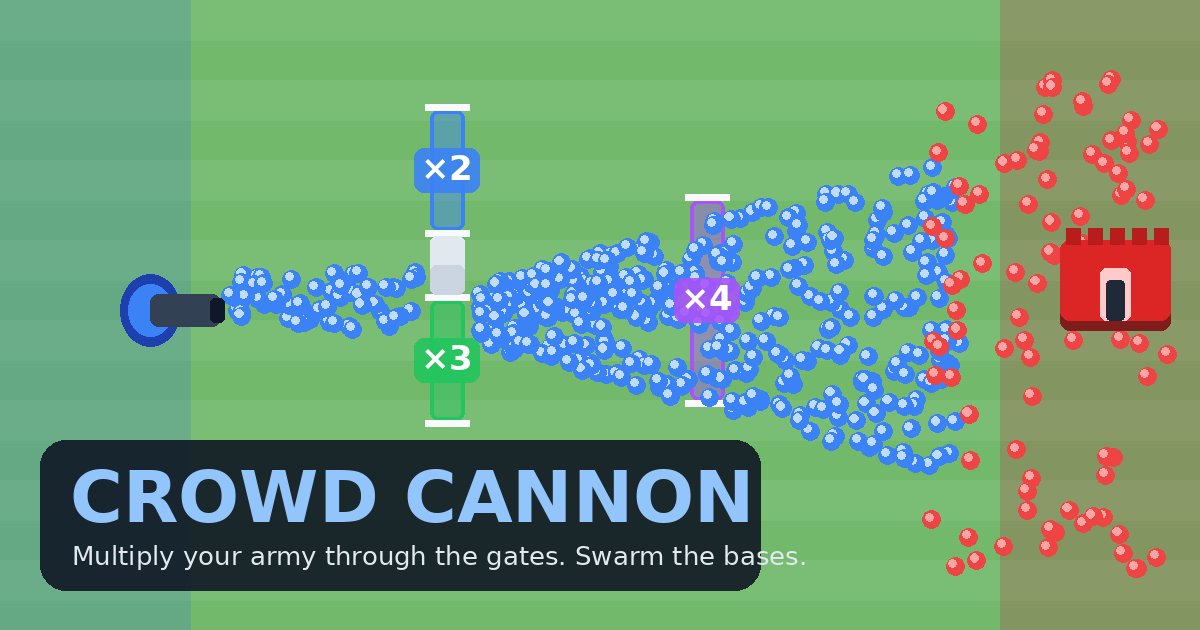
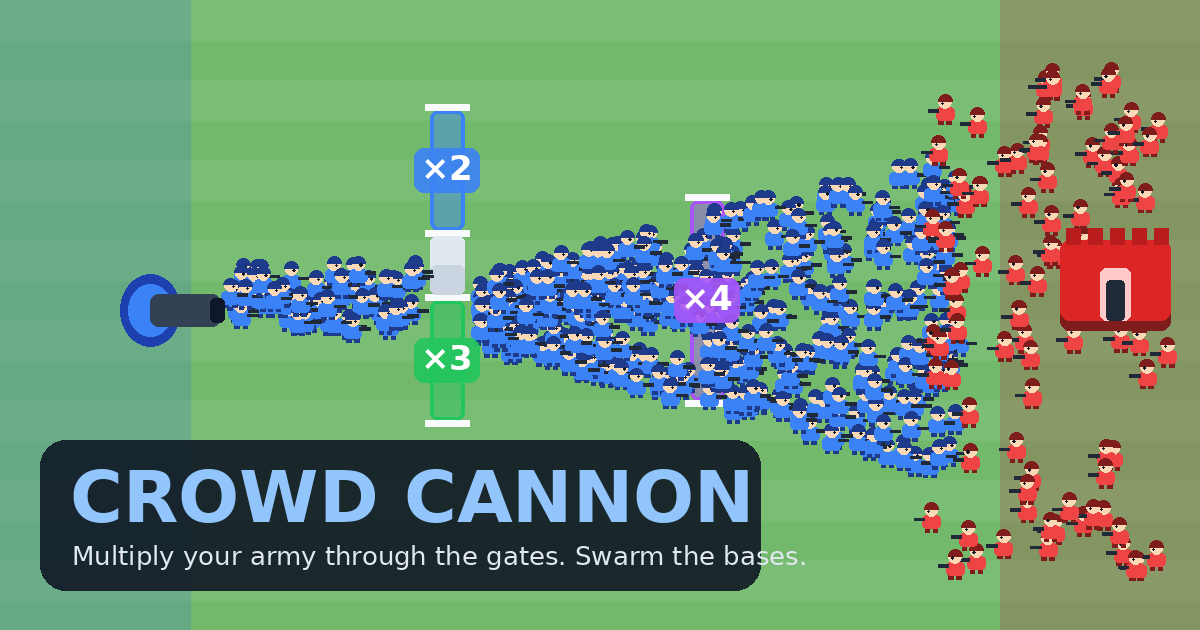
Draw units as soldiers, brutes as spiky monsters, redesign champions
Blue and red units are now small animated soldiers (helmet, body,
legs, rifle) batched per team for performance. Brutes are hunched
spiky monsters with a club. Knight carries shield and sword, Bomber is
a round bomb with a lit fuse. Base HP bars moved below the bases so
the HUD no longer hides them. Share image updated to match.

Changed region(s): [[0.185, 0.0905, 0.9867, 0.9349]]

diff --git a/game.js b/game.js
@@ -77,7 +77,7 @@ function makeLevel(n) {
   const nBases = Math.min(3, 1 + Math.floor((n - 1) / 2));
   const xs = nBases === 1 ? [200] : nBases === 2 ? [120, 280] : [75, 200, 325];
   const baseHp = 200 + n * 60;
-  xs.forEach(x => L.bases.push({ x, y: 70, w: 66, h: 42, hp: baseHp, maxHp: baseHp, timer: 1 + rng() * 2, wobble: 0 }));
+  xs.forEach(x => L.bases.push({ x, y: 82, w: 66, h: 42, hp: baseHp, maxHp: baseHp, timer: 1 + rng() * 2, wobble: 0 }));
 
   const rowYs = [190, 272, 354, 436, 518];
   const nRows = Math.min(5, 2 + Math.ceil(n / 2));
@@ -141,7 +141,7 @@ function mkSoldier(team, x, y, o) {
   return Object.assign({
     team, x, y, px: x, py: y, r: 4.5, hp: 1, maxHp: 1, dmg: 2,
     speed: team === 'blue' ? 95 : 46, boost: 0, lastGate: -1, champ: null,
-    hit: 0, dead: false, brute: false, launchVx: 0, launchT: 0,
+    hit: 0, dead: false, brute: false, launchVx: 0, launchT: 0, ph: Math.random() * 6.283,
   }, o || {});
 }
 
@@ -459,29 +459,126 @@ function roundRect(x, y, w, h, r) {
   ctx.arcTo(x, y + h, x, y, r); ctx.arcTo(x, y, x + w, y, r); ctx.closePath();
 }
 
-function drawTeam(list, body, light) {
-  ctx.fillStyle = body; ctx.beginPath();
-  for (const s of list) { if (s.champ) continue; ctx.moveTo(s.x + s.r, s.y); ctx.arc(s.x, s.y, s.r, 0, 6.2832); }
+const TAU = 6.2832;
+function rrPath(x, y, w, h, r) {
+  ctx.moveTo(x + r, y); ctx.arcTo(x + w, y, x + w, y + h, r); ctx.arcTo(x + w, y + h, x, y + h, r);
+  ctx.arcTo(x, y + h, x, y, r); ctx.arcTo(x, y, x + w, y, r); ctx.closePath();
+}
+
+// Little soldiers: batched into a handful of fills per team so hundreds stay cheap.
+// Blue faces up (we see helmets and backpacks); red faces down (we see faces).
+const PAL = {
+  blue: { body: '#3b82f6', dark: '#1e3a8a', helmet: '#1d4ed8', stripe: '#93c5fd', skin: '#fcd9b6', gun: '#1f2937' },
+  red:  { body: '#ef4444', dark: '#7f1d1d', helmet: '#991b1b', stripe: '#fca5a5', skin: '#fcd9b6', gun: '#1f2937' },
+};
+function drawSoldiers(list, pal, facingUp) {
+  const t = G.t * 14;
+  const plain = s => !s.champ && !s.brute;
+  // legs
+  ctx.fillStyle = pal.dark; ctx.beginPath();
+  for (const s of list) { if (!plain(s)) continue; const r = s.r, k = Math.sin(t + s.ph) * r * 0.4;
+    ctx.rect(s.x - r * 0.72, s.y + r * 0.55 + k, r * 0.55, r * 0.95); ctx.rect(s.x + r * 0.17, s.y + r * 0.55 - k, r * 0.55, r * 0.95); }
   ctx.fill();
-  ctx.fillStyle = light; ctx.beginPath();
-  for (const s of list) { if (s.champ) continue; const r = s.r * 0.45, x = s.x - s.r * 0.25, y = s.y - s.r * 0.3; ctx.moveTo(x + r, y); ctx.arc(x, y, r, 0, 6.2832); }
+  // body
+  ctx.fillStyle = pal.body; ctx.beginPath();
+  for (const s of list) { if (!plain(s)) continue; const r = s.r; rrPath(s.x - r, s.y - r * 0.45, r * 2, r * 1.45, r * 0.45); }
   ctx.fill();
+  // backpack (blue) or belt (red)
+  ctx.fillStyle = pal.dark; ctx.beginPath();
+  for (const s of list) { if (!plain(s)) continue; const r = s.r;
+    if (facingUp) rrPath(s.x - r * 0.5, s.y - r * 0.2, r, r * 0.9, r * 0.25); else ctx.rect(s.x - r, s.y + r * 0.55, r * 2, r * 0.3); }
+  ctx.fill();
+  // rifle
+  ctx.fillStyle = pal.gun; ctx.beginPath();
+  for (const s of list) { if (!plain(s)) continue; const r = s.r; ctx.rect(s.x + r * 0.95, facingUp ? s.y - r * 1.5 : s.y - r * 0.1, r * 0.32, r * 1.6); }
+  ctx.fill();
+  // head
+  ctx.fillStyle = pal.skin; ctx.beginPath();
+  for (const s of list) { if (!plain(s)) continue; const r = s.r; ctx.moveTo(s.x + r * 0.7, s.y - r); ctx.arc(s.x, s.y - r, r * 0.7, 0, TAU); }
+  ctx.fill();
+  // helmet
+  ctx.fillStyle = pal.helmet; ctx.beginPath();
+  for (const s of list) { if (!plain(s)) continue; const r = s.r, hy = s.y - r * 1.05;
+    if (facingUp) { ctx.moveTo(s.x + r * 0.76, hy); ctx.arc(s.x, hy, r * 0.76, 0, TAU); }
+    else { ctx.moveTo(s.x - r * 0.78, hy + r * 0.1); ctx.arc(s.x, hy + r * 0.1, r * 0.78, Math.PI, 0); ctx.closePath(); } }
+  ctx.fill();
+  // helmet stripe / eyes
+  if (facingUp) {
+    ctx.fillStyle = pal.stripe; ctx.beginPath();
+    for (const s of list) { if (!plain(s)) continue; const r = s.r; ctx.rect(s.x - r * 0.12, s.y - r * 1.75, r * 0.24, r * 1.1); }
+    ctx.fill();
+  } else {
+    ctx.fillStyle = '#111827'; ctx.beginPath();
+    for (const s of list) { if (!plain(s)) continue; const r = s.r, ey = s.y - r * 0.85;
+      ctx.moveTo(s.x - r * 0.25 + r * 0.13, ey); ctx.arc(s.x - r * 0.25, ey, r * 0.13, 0, TAU);
+      ctx.moveTo(s.x + r * 0.25 + r * 0.13, ey); ctx.arc(s.x + r * 0.25, ey, r * 0.13, 0, TAU); }
+    ctx.fill();
+  }
+  // hit flash: white silhouette
   ctx.fillStyle = 'rgba(255,255,255,0.85)'; ctx.beginPath();
-  for (const s of list) { if (s.hit > 0 && !s.champ) { ctx.moveTo(s.x + s.r, s.y); ctx.arc(s.x, s.y, s.r, 0, 6.2832); } }
+  for (const s of list) { if (!plain(s) || s.hit <= 0) continue; const r = s.r;
+    rrPath(s.x - r, s.y - r * 0.45, r * 2, r * 1.45, r * 0.45); ctx.moveTo(s.x + r * 0.78, s.y - r * 1.05); ctx.arc(s.x, s.y - r * 1.05, r * 0.78, 0, TAU); }
   ctx.fill();
 }
 
-function drawChampion(s) {
-  const c = CHAMPS[s.champ];
-  ctx.save();
-  ctx.shadowColor = c.color; ctx.shadowBlur = 12;
-  ctx.fillStyle = s.hit > 0 ? '#fff' : c.color; ctx.beginPath(); ctx.arc(s.x, s.y, s.r, 0, 6.2832); ctx.fill();
-  ctx.shadowBlur = 0;
-  ctx.strokeStyle = '#1e3a8a'; ctx.lineWidth = 2; ctx.stroke();
-  ctx.fillStyle = '#1e3a8a'; ctx.beginPath(); ctx.arc(s.x - s.r * 0.3, s.y - s.r * 0.2, s.r * 0.18, 0, 6.2832); ctx.arc(s.x + s.r * 0.3, s.y - s.r * 0.2, s.r * 0.18, 0, 6.2832); ctx.fill();
+function hpBar(s) {
   const w = s.r * 2.4, f = clamp(s.hp / s.maxHp, 0, 1);
-  ctx.fillStyle = 'rgba(0,0,0,0.4)'; ctx.fillRect(s.x - w / 2, s.y - s.r - 7, w, 3);
-  ctx.fillStyle = '#4ade80'; ctx.fillRect(s.x - w / 2, s.y - s.r - 7, w * f, 3);
+  ctx.fillStyle = 'rgba(0,0,0,0.4)'; ctx.fillRect(s.x - w / 2, s.y - s.r * 2.1, w, 3);
+  ctx.fillStyle = '#4ade80'; ctx.fillRect(s.x - w / 2, s.y - s.r * 2.1, w * f, 3);
+}
+
+// Brute: a spiky, hunched monster with a club.
+function drawBrute(s) {
+  const r = s.r, x = s.x, y = s.y, k = Math.sin(G.t * 9 + s.ph) * r * 0.25;
+  ctx.fillStyle = '#7f1d1d';
+  ctx.fillRect(x - r * 0.75, y + r * 0.45 + k, r * 0.5, r * 0.8); ctx.fillRect(x + r * 0.25, y + r * 0.45 - k, r * 0.5, r * 0.8);
+  ctx.fillStyle = '#78350f'; ctx.fillRect(x + r * 0.85, y - r * 0.9, r * 0.32, r * 1.5);
+  ctx.fillStyle = '#a16207'; ctx.beginPath(); ctx.arc(x + r * 1.01, y - r * 1.0, r * 0.42, 0, TAU); ctx.fill();
+  ctx.fillStyle = s.hit > 0 ? '#fff' : '#991b1b';
+  ctx.beginPath(); ctx.ellipse(x, y, r, r * 0.85, 0, 0, TAU); ctx.fill();
+  ctx.fillStyle = '#fca5a5'; ctx.beginPath();
+  for (let i = -1; i <= 1; i++) { const sx = x + i * r * 0.55; ctx.moveTo(sx - r * 0.22, y - r * 0.55); ctx.lineTo(sx, y - r * 1.3); ctx.lineTo(sx + r * 0.22, y - r * 0.55); }
+  ctx.fill();
+  ctx.fillStyle = '#fde047'; ctx.beginPath(); ctx.arc(x - r * 0.35, y - r * 0.1, r * 0.22, 0, TAU); ctx.arc(x + r * 0.35, y - r * 0.1, r * 0.22, 0, TAU); ctx.fill();
+  ctx.fillStyle = '#111'; ctx.beginPath(); ctx.arc(x - r * 0.33, y - r * 0.05, r * 0.1, 0, TAU); ctx.arc(x + r * 0.37, y - r * 0.05, r * 0.1, 0, TAU); ctx.fill();
+  ctx.strokeStyle = '#450a0a'; ctx.lineWidth = 1.5; ctx.beginPath();
+  ctx.moveTo(x - r * 0.6, y - r * 0.5); ctx.lineTo(x - r * 0.15, y - r * 0.3); ctx.moveTo(x + r * 0.6, y - r * 0.5); ctx.lineTo(x + r * 0.15, y - r * 0.3); ctx.stroke();
+  ctx.fillStyle = '#fff'; ctx.beginPath(); ctx.moveTo(x - r * 0.3, y + r * 0.35); ctx.lineTo(x - r * 0.2, y + r * 0.6); ctx.lineTo(x - r * 0.1, y + r * 0.35); ctx.moveTo(x + r * 0.1, y + r * 0.35); ctx.lineTo(x + r * 0.2, y + r * 0.6); ctx.lineTo(x + r * 0.3, y + r * 0.35); ctx.fill();
+  hpBar(s);
+}
+
+function drawChampion(s) {
+  const c = CHAMPS[s.champ], r = s.r, x = s.x, y = s.y, k = Math.sin(G.t * 12 + s.ph) * r * 0.3;
+  ctx.save();
+  ctx.shadowColor = c.color; ctx.shadowBlur = 10;
+  if (s.champ === 'knight') {
+    ctx.fillStyle = '#1e3a8a'; ctx.fillRect(x - r * 0.7, y + r * 0.5 + k, r * 0.5, r * 0.9); ctx.fillRect(x + r * 0.2, y + r * 0.5 - k, r * 0.5, r * 0.9);
+    ctx.fillStyle = '#e5e7eb'; ctx.fillRect(x + r * 0.85, y - r * 2.2, r * 0.28, r * 2.1);
+    ctx.fillStyle = '#78350f'; ctx.fillRect(x + r * 0.6, y - r * 0.2, r * 0.8, r * 0.3);
+    ctx.fillStyle = s.hit > 0 ? '#fff' : '#60a5fa'; ctx.beginPath(); rrPath(x - r, y - r * 0.5, r * 2, r * 1.5, r * 0.45); ctx.fill();
+    ctx.fillStyle = '#1e40af'; ctx.fillRect(x - r * 0.15, y - r * 0.5, r * 0.3, r * 1.5);
+    ctx.shadowBlur = 0;
+    ctx.fillStyle = '#fde047'; ctx.beginPath(); ctx.arc(x - r * 1.05, y + r * 0.1, r * 0.6, 0, TAU); ctx.fill();
+    ctx.strokeStyle = '#b45309'; ctx.lineWidth = 2; ctx.stroke();
+    ctx.fillStyle = '#b45309'; ctx.beginPath(); ctx.arc(x - r * 1.05, y + r * 0.1, r * 0.18, 0, TAU); ctx.fill();
+    ctx.fillStyle = '#fcd9b6'; ctx.beginPath(); ctx.arc(x, y - r * 1.1, r * 0.62, 0, TAU); ctx.fill();
+    ctx.fillStyle = '#1e40af'; ctx.beginPath(); ctx.arc(x, y - r * 1.15, r * 0.7, 0, TAU); ctx.fill();
+    ctx.fillStyle = '#0f172a'; ctx.fillRect(x - r * 0.5, y - r * 1.2, r, r * 0.22);
+    ctx.fillStyle = '#ef4444'; ctx.beginPath(); ctx.moveTo(x, y - r * 1.85); ctx.quadraticCurveTo(x + r * 0.6, y - r * 2.4, x + r * 0.9, y - r * 1.7); ctx.quadraticCurveTo(x + r * 0.4, y - r * 1.8, x, y - r * 1.6); ctx.fill();
+  } else {
+    ctx.fillStyle = '#1f2937'; ctx.fillRect(x - r * 0.7, y + r * 0.5 + k, r * 0.5, r * 0.8); ctx.fillRect(x + r * 0.2, y + r * 0.5 - k, r * 0.5, r * 0.8);
+    ctx.fillStyle = s.hit > 0 ? '#fff' : '#111827'; ctx.beginPath(); ctx.arc(x, y, r, 0, TAU); ctx.fill();
+    ctx.shadowBlur = 0;
+    ctx.fillStyle = 'rgba(255,255,255,0.25)'; ctx.beginPath(); ctx.arc(x - r * 0.35, y - r * 0.35, r * 0.35, 0, TAU); ctx.fill();
+    ctx.fillStyle = '#6b7280'; ctx.fillRect(x - r * 0.25, y - r * 1.25, r * 0.5, r * 0.4);
+    ctx.strokeStyle = '#d6d3d1'; ctx.lineWidth = 1.5; ctx.beginPath(); ctx.moveTo(x, y - r * 1.25); ctx.quadraticCurveTo(x + r * 0.4, y - r * 1.8, x + r * 0.8, y - r * 1.6); ctx.stroke();
+    const sp = 0.8 + Math.sin(G.t * 40) * 0.3;
+    ctx.fillStyle = '#fde047'; ctx.beginPath(); ctx.arc(x + r * 0.8, y - r * 1.6, r * 0.3 * sp, 0, TAU); ctx.fill();
+    ctx.fillStyle = '#fb923c'; ctx.beginPath(); ctx.arc(x + r * 0.8, y - r * 1.6, r * 0.15 * sp, 0, TAU); ctx.fill();
+    ctx.fillStyle = '#fff'; ctx.beginPath(); ctx.arc(x - r * 0.3, y - r * 0.1, r * 0.22, 0, TAU); ctx.arc(x + r * 0.3, y - r * 0.1, r * 0.22, 0, TAU); ctx.fill();
+    ctx.fillStyle = '#111'; ctx.beginPath(); ctx.arc(x - r * 0.3, y - r * 0.15, r * 0.1, 0, TAU); ctx.arc(x + r * 0.3, y - r * 0.15, r * 0.1, 0, TAU); ctx.fill();
+  }
+  hpBar(s);
   ctx.restore();
 }
 
@@ -513,7 +610,7 @@ function draw() {
     for (const g of L.gates) {
       const good = g.mult >= 2;
       const col = !good ? '239,68,68' : g.mult >= 4 ? '168,85,247' : g.mult === 3 ? '34,197,94' : '59,130,246';
-      ctx.fillStyle = `rgba(${col},${0.35 + g.flash * 0.4})`;
+      ctx.fillStyle = `rgba(${col},${(good ? 0.35 : 0.55) + g.flash * 0.4})`;
       roundRect(g.x, g.y, g.w, g.h, 6); ctx.fill();
       ctx.strokeStyle = `rgba(${col},0.95)`; ctx.lineWidth = 2.5; ctx.stroke();
       // posts
@@ -548,8 +645,8 @@ function draw() {
       ctx.fillStyle = '#fecaca'; roundRect(r.x + r.w / 2 - 9, r.y + 14, 18, r.h - 14, 4); ctx.fill();
       ctx.fillStyle = '#1f2937'; roundRect(r.x + r.w / 2 - 5, r.y + 20, 10, r.h - 20, 3); ctx.fill();
       ctx.restore();
-      ctx.fillStyle = 'rgba(0,0,0,0.45)'; roundRect(r.x, r.y - 20, r.w, 7, 3); ctx.fill();
-      ctx.fillStyle = '#f87171'; roundRect(r.x, r.y - 20, r.w * clamp(b.hp / b.maxHp, 0, 1), 7, 3); ctx.fill();
+      ctx.fillStyle = 'rgba(0,0,0,0.45)'; roundRect(r.x, r.y + r.h + 9, r.w, 7, 3); ctx.fill();
+      ctx.fillStyle = '#f87171'; roundRect(r.x, r.y + r.h + 9, r.w * clamp(b.hp / b.maxHp, 0, 1), 7, 3); ctx.fill();
     }
     // defensive line
     ctx.setLineDash([8, 6]); ctx.strokeStyle = 'rgba(255,255,255,0.7)'; ctx.lineWidth = 2;
@@ -561,8 +658,9 @@ function draw() {
   }
 
   // soldiers
-  drawTeam(G.red, '#ef4444', '#fca5a5');
-  drawTeam(G.blue, '#3b82f6', '#bfdbfe');
+  drawSoldiers(G.red, PAL.red, false);
+  for (const s of G.red) if (s.brute) drawBrute(s);
+  drawSoldiers(G.blue, PAL.blue, true);
   for (const s of G.blue) if (s.champ) drawChampion(s);
 
   // particles
@@ -755,5 +853,5 @@ showMenu();
 requestAnimationFrame(frame);
 
 // Exposed for tests and tinkering.
-window.CrowdCannon = { G, save, startLevel, update, makeLevel, deploy, CANNONS, CHAMPS, UPGRADES, get level() { return L; } };
+window.CrowdCannon = { G, save, startLevel, update, draw, makeLevel, deploy, CANNONS, CHAMPS, UPGRADES, get level() { return L; } };
 })();

diff --git a/tools/make_og.py b/tools/make_og.py
@@ -22,11 +22,18 @@ def font(size, bold=True):
     return ImageFont.load_default()
 
 
-def soldier(d, x, y, r, body, light):
-    d.ellipse((x - r, y - r, x + r, y + r), fill=body)
-    hr = r * 0.45
-    hx, hy = x - r * 0.25, y - r * 0.3
-    d.ellipse((hx - hr, hy - hr, hx + hr, hy + hr), fill=light)
+def soldier(d, x, y, r, body, light, dark="#1e3a8a", facing_right=True):
+    """Tiny soldier seen from the side, marching to the right (blue) or left (red)."""
+    f = 1 if facing_right else -1
+    d.rectangle((x - r * 0.7, y + r * 0.5, x - r * 0.2, y + r * 1.4), fill=dark)
+    d.rectangle((x + r * 0.2, y + r * 0.5, x + r * 0.7, y + r * 1.4), fill=dark)
+    d.rounded_rectangle((x - r, y - r * 0.45, x + r, y + r * 1.0), int(r * 0.45), fill=body)
+    gx0, gx1 = sorted((x + f * r * 0.75, x + f * r * 1.9))
+    d.rectangle((gx0, y - r * 0.2, gx1, y + r * 0.1), fill="#1f2937")
+    d.ellipse((x - r * 0.7, y - r * 1.75, x + r * 0.7, y - r * 0.35), fill="#fcd9b6")
+    d.pieslice((x - r * 0.78, y - r * 1.9, x + r * 0.78, y - r * 0.35), 180, 360, fill=dark)
+    ex = x + f * r * 0.28
+    d.ellipse((ex - r * 0.12, y - r * 1.05, ex + r * 0.12, y - r * 0.8), fill="#111827")
 
 
 def card():
@@ -61,7 +68,7 @@ def card():
     for i in range(90):
         x = 930 + random.random() * 240
         y = 60 + random.random() * 510
-        soldier(d, x, y, 9, "#ef4444", "#fca5a5")
+        soldier(d, x, y, 9, "#ef4444", "#fca5a5", dark="#7f1d1d", facing_right=False)
 
     for gx, gy, gh, label, col in gates:
         f = font(34)
